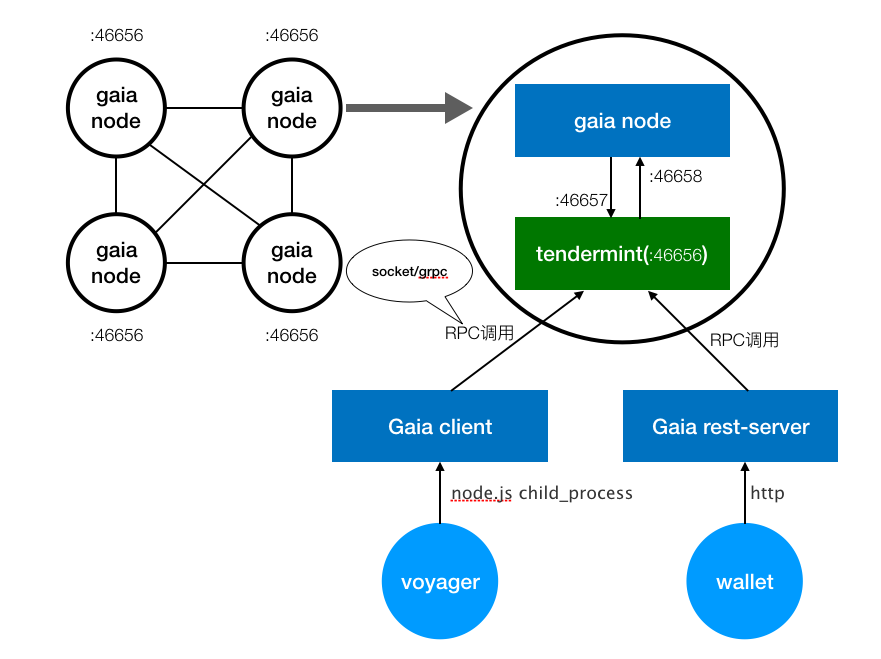
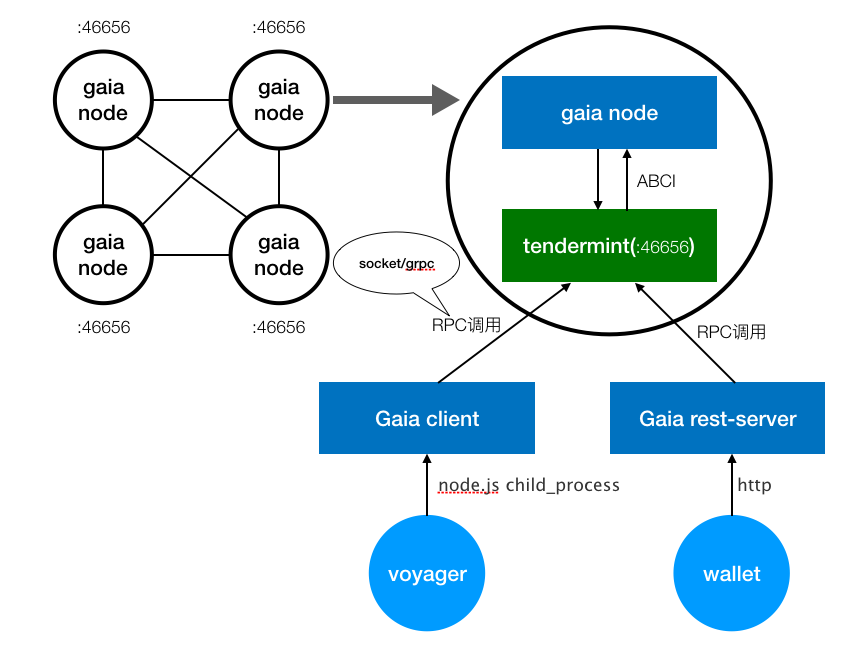
commit

diff --git a/cosmos/gaia/README.md b/cosmos/gaia/README.md
@@ -5,9 +5,8 @@ A demonstration of the Cosmos-Hub with basic staking functionality.
   + [gaia是什么](#gaia是什么)
   + [gaia架构](#gaia架构)
   + [gaia功能](#gaia功能)
-    + [gaia client](#client)
-    + [gaia node](#node)
-    + [gaia rest-server](#rest-server)
+    + [cosmos-sdk](#cosmos-sdk功能)
+    + [gaia](#gaia功能)
   + [gaia代码结构](#gaia代码结构)
   + [gaia更新](#gaia更新)
 
@@ -19,31 +18,54 @@ A demonstration of the Cosmos-Hub with basic staking functionality.
 
 ## gaia简介
 
-## gaia是什么
-  + gaia是cosmos一个project——具有基本的staking功能的Cosmos-Hub的示范。    https://github.com/cosmos/gaia
+### gaia是什么
+  + gaia是cosmos一个project——具有基本的staking功能的Cosmos-Hub的范例。    https://github.com/cosmos/gaia
 
   + gaia也是cosmos-hub目前的测试网络使用名，官方发布过两个测试网络gaia1和gaia2。
 
-#### gaia架构
-
-#### gaia功能
-  + 功能架构
+### gaia架构
+  + 系统架构
 
   ![img](./source/gaia架构.png)
 
+  + ABCI实现方式：
+   + local&nbsp;&nbsp;&nbsp;&nbsp;本地方法调用
+   + grpc&nbsp;&nbsp;&nbsp;&nbsp;http2长链接&nbsp;&nbsp;&nbsp;&nbsp;grpc序列化
+   + socket&nbsp;&nbsp;&nbsp;&nbsp;tcp常连接 &nbsp;&nbsp;&nbsp;&nbsp;go rpc序列化
+
   + 运行时状态
-  
+
   ![img](./source/运行时状态.png)
 
-##### client
+### gaia功能
+  + cosmos-sdk功能
+  + gaia功能
+    + stake
+      + declareCandidacy
+      + editCandidacy
+      + delegate
+      + unbond
+
+### gaia命令
 
 ##### node
+The Cosmos Network delegation-game blockchain test
+
+##### client
+Gaia light client
 
 #### rest-server
+REST client for gaia commands
 
 #### gaia代码结构
 
 https://github.com/cosmos/gaia
+
+| testnet | gaia version |
+| -----   |:-----------: |
+| gaia1   | v0.2.0       |
+| gaia2   | v0.5.0       |
+| now     | v0.6.0       |
 
 #### gaia更新
 
